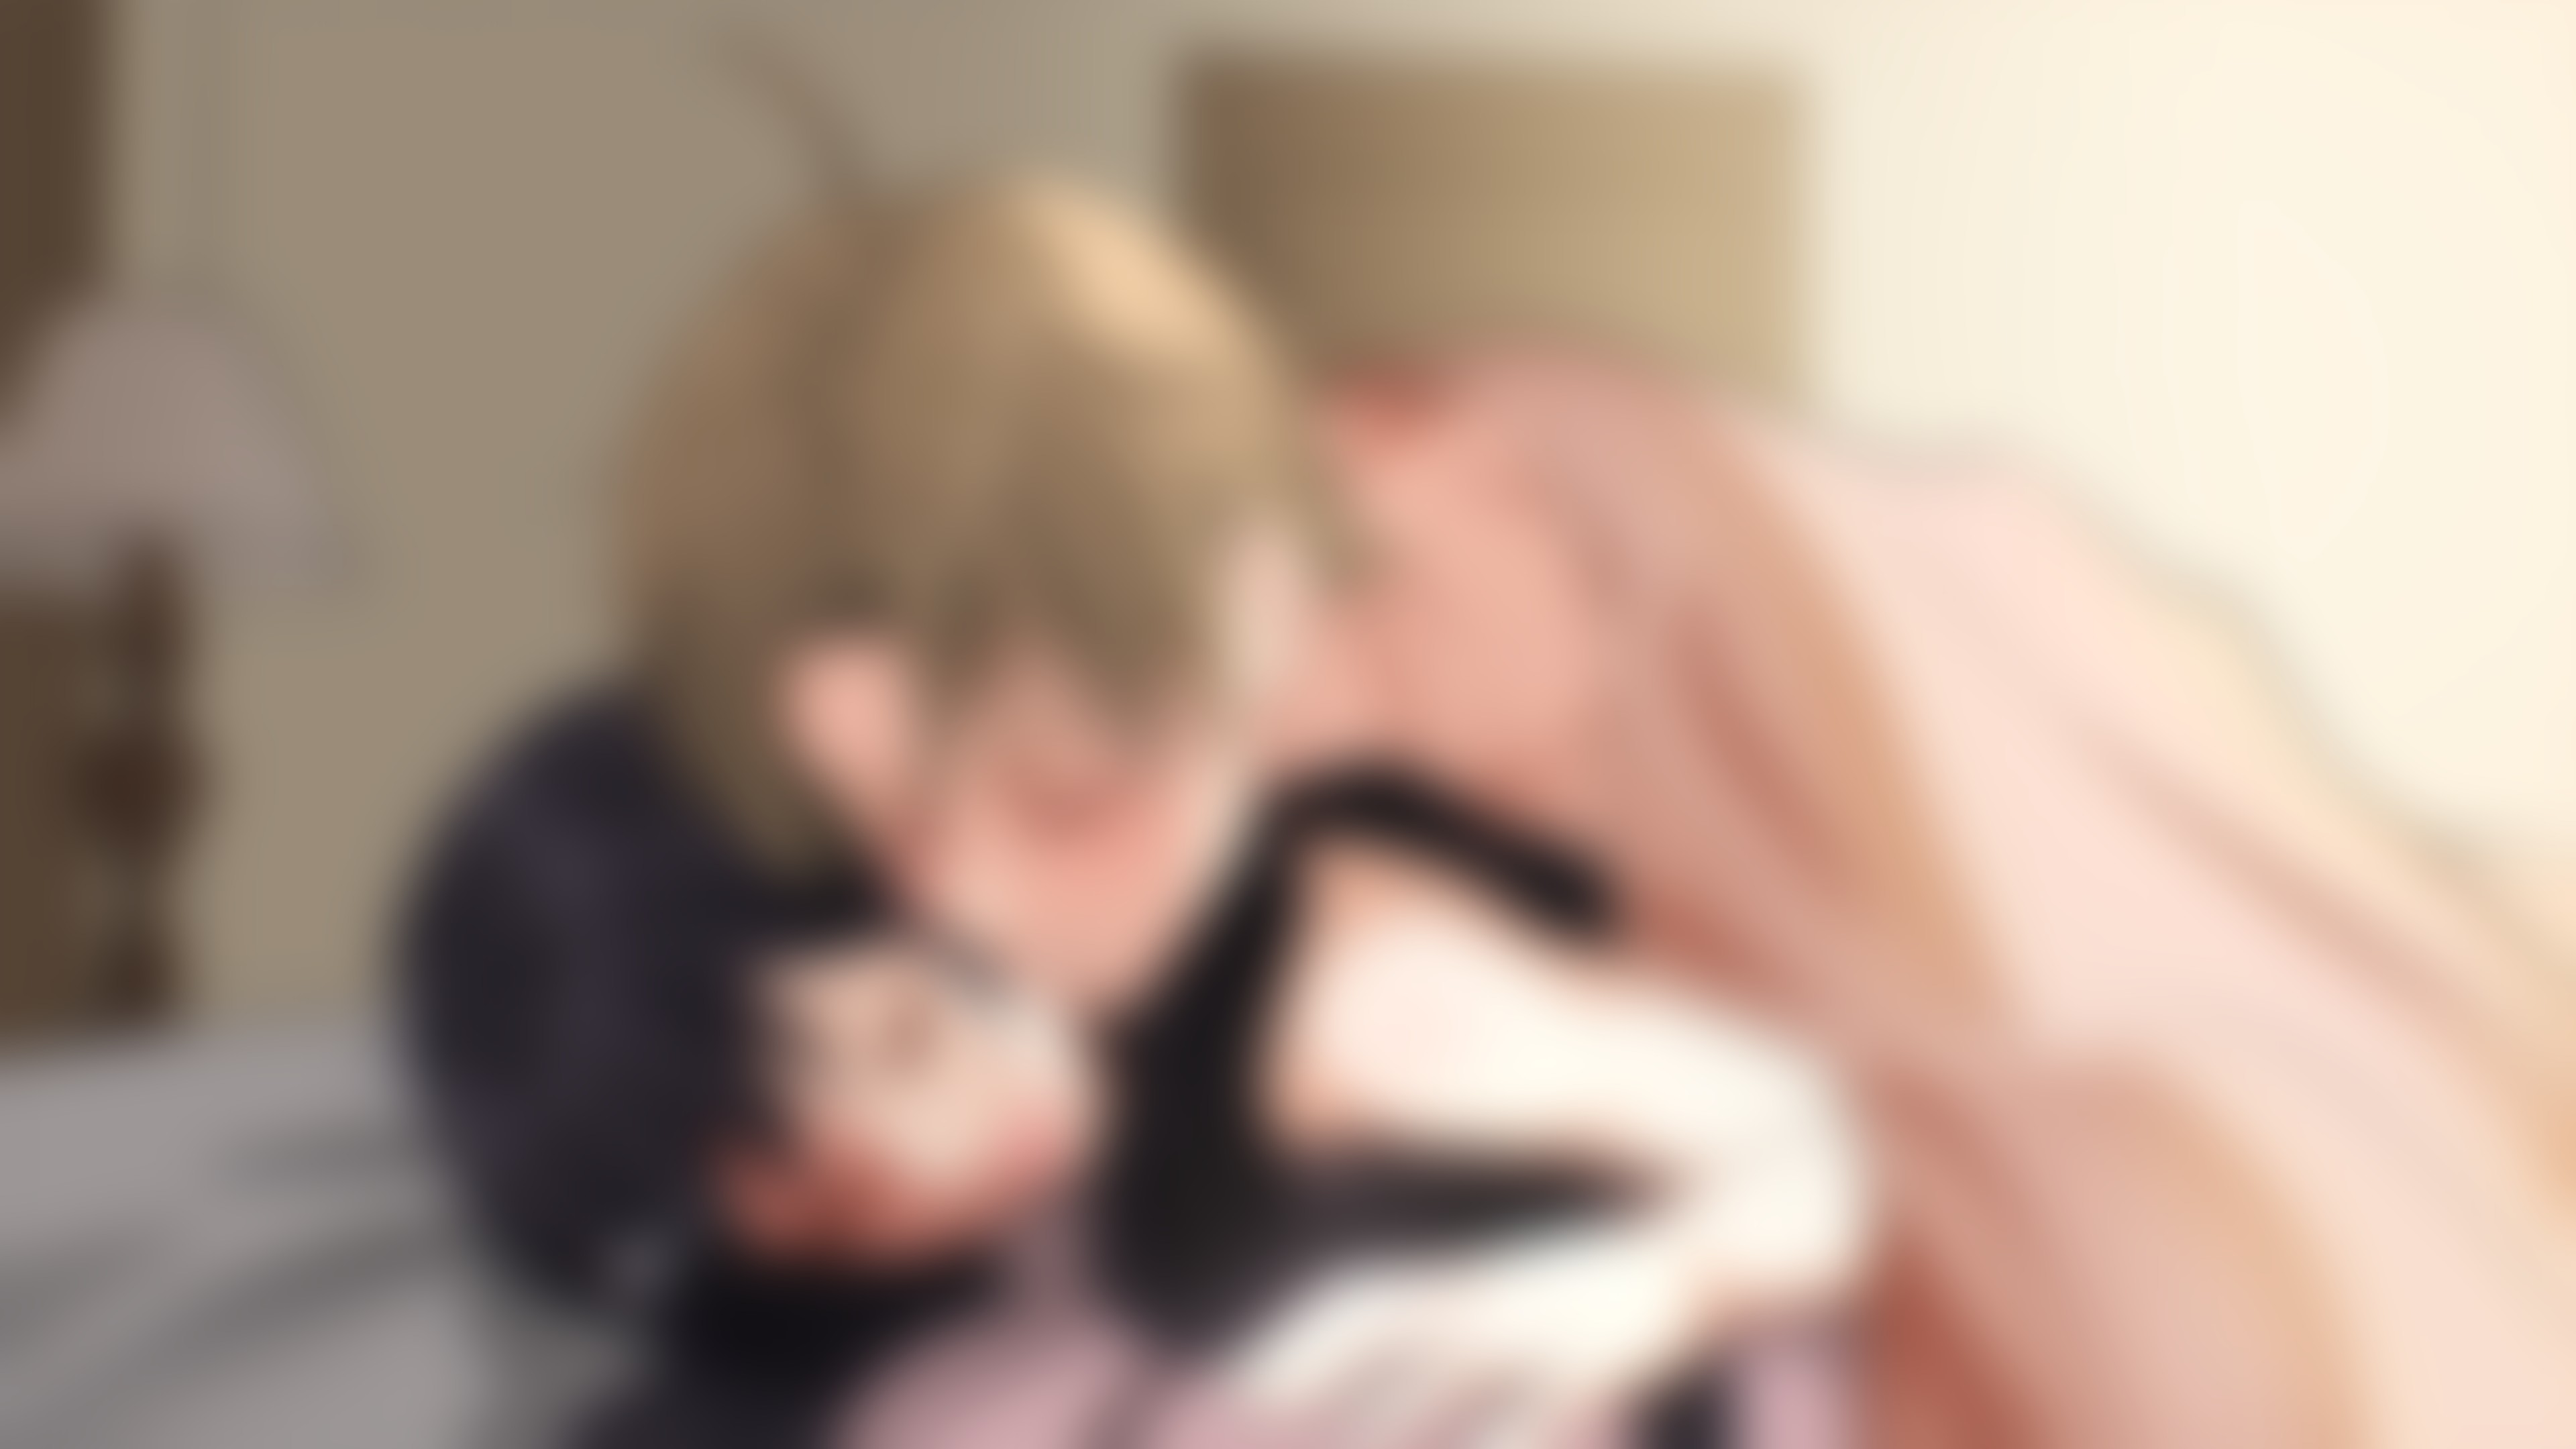
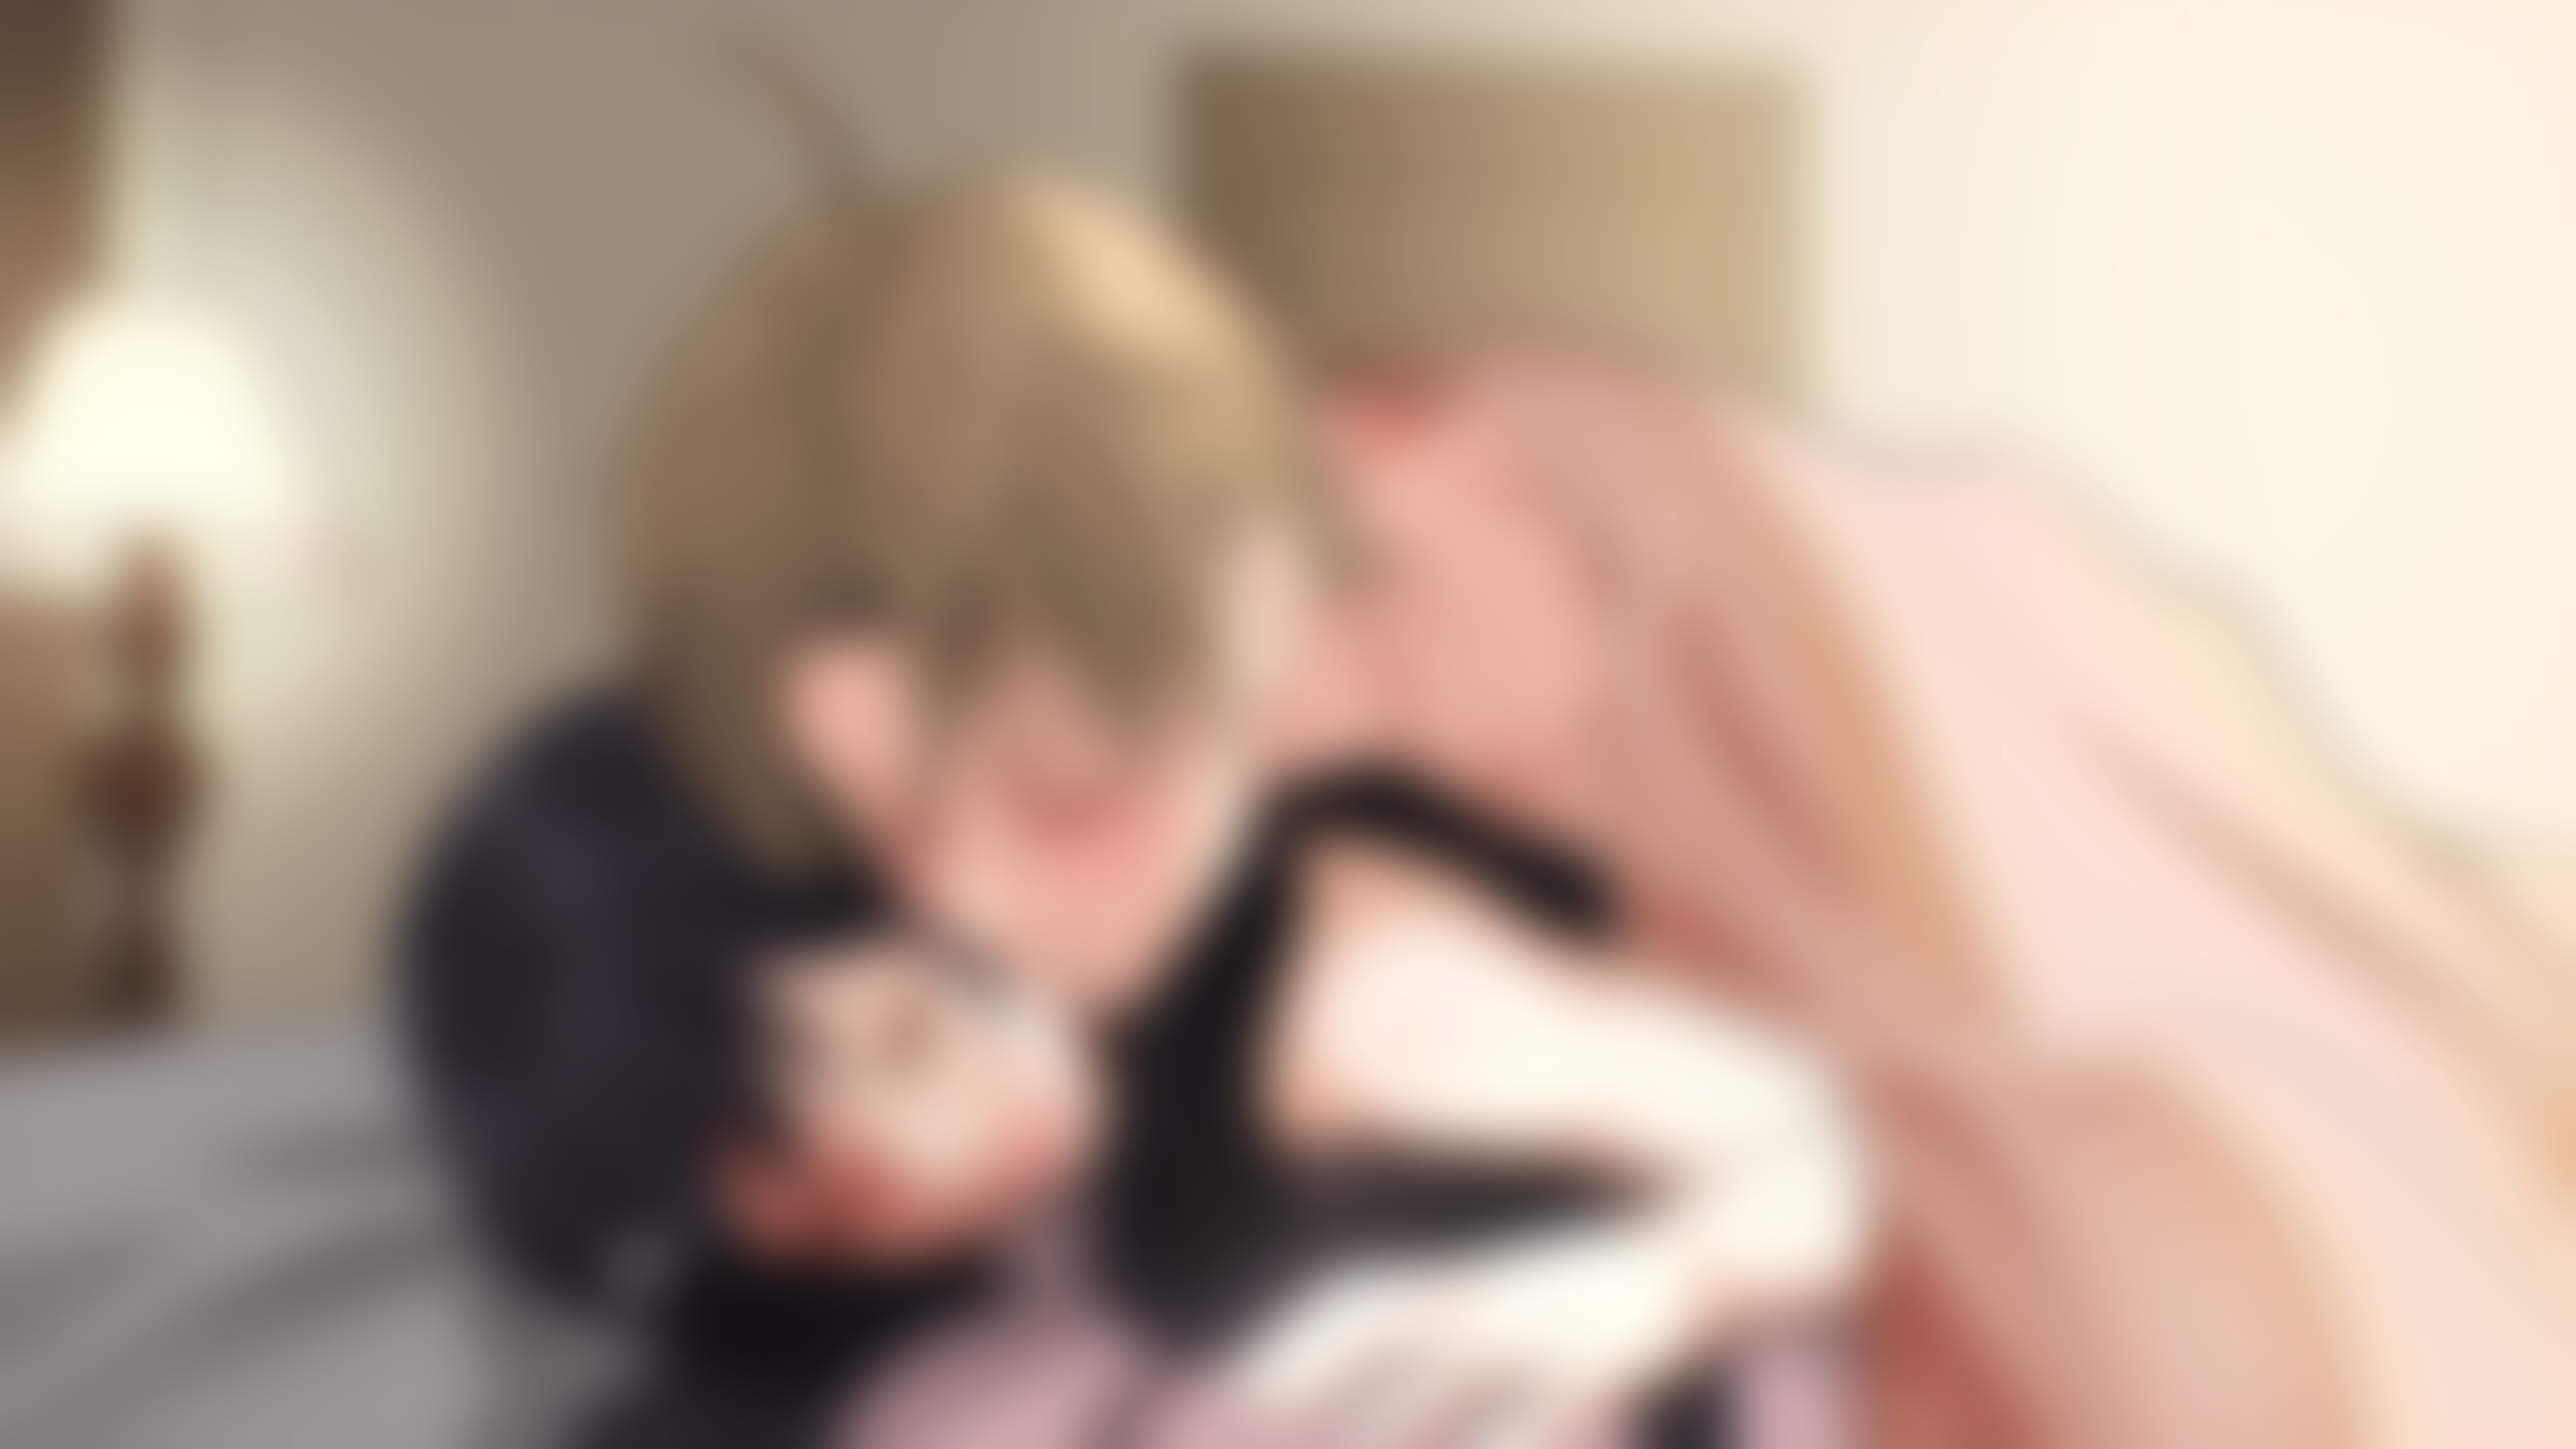
Replace one of the Tipsy Fun CGs (fix #23)

Changed region(s): [[0.0, 0.031, 0.2188, 0.6204]]

diff --git a/scripts/shimgx.py b/scripts/shimgx.py
@@ -316,8 +316,8 @@ IMAGES: list[tuple[str, str, list[ImageTransformation]]] = [
     ("@Event Art/Tipsy Fun/3.1_scene_fix.png",              "event/tipsyfun/tipsyfun_collapse_climax.jpg"),
     ("@Event Art/Tipsy Fun/3.2_v2night_fix.png",            "event/tipsyfun/tipsyfun_collapse_climaxclosed.jpg"),
     ("@Event Art/Tipsy Fun/3.2_scene.png",                  "event/tipsyfun/tipsyfun_collapse_morning.jpg"),
-    ("@Event Art/Tipsy Fun/3.2_v2morning.png",              "event/tipsyfun/tipsyfun_collapse_morningclosed.jpg"),
-    ("@Event Art/Tipsy Fun/3.2_v2morning.png",              "event/tipsyfun/tipsyfun_collapse_morningclosed_blur.jpg", [blur(40)]),
+    ("@Event Art/Tipsy Fun/3.2_v2morning_fix.png",          "event/tipsyfun/tipsyfun_collapse_morningclosed.jpg"),
+    ("@Event Art/Tipsy Fun/3.2_v2morning_fix.png",          "event/tipsyfun/tipsyfun_collapse_morningclosed_blur.jpg", [blur(40)]),
     # chapter 25
     ("bgs/satou_guestroom.jpg", "bgs/satou_guestroom_blur.jpg", [blur(8)]),
     # chapter 29 - Soap Opera
